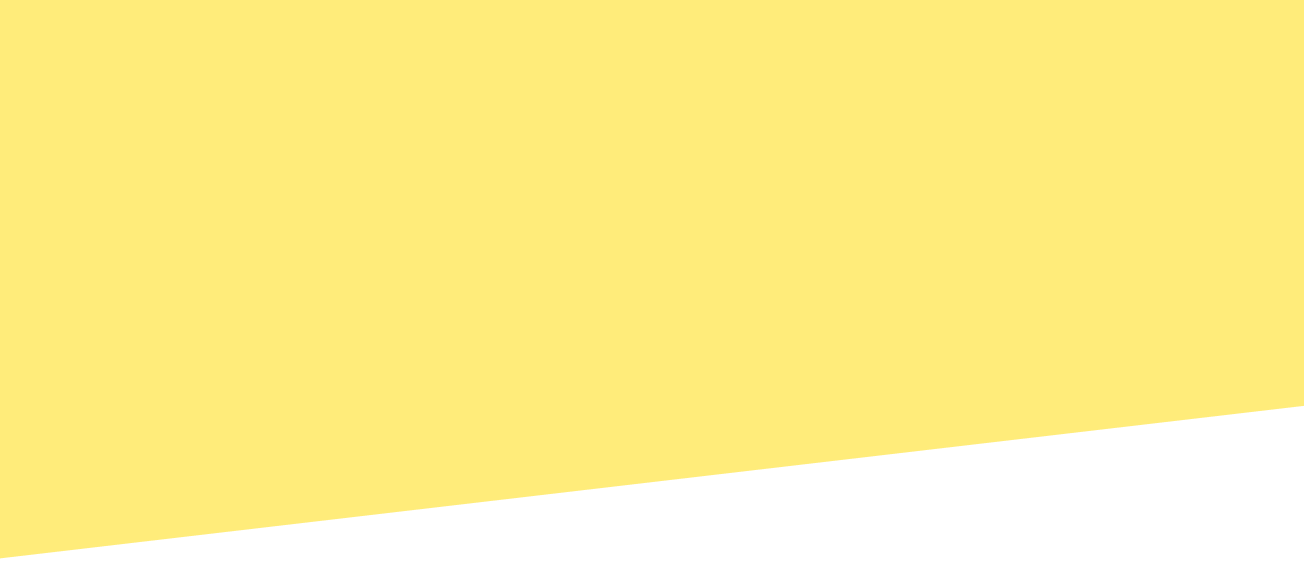
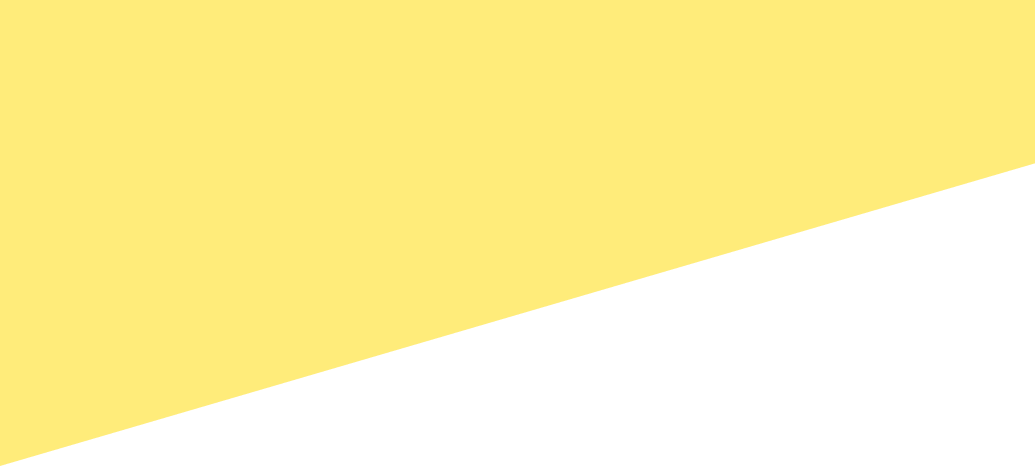
header layout for all devices

Changed region(s): [[0.0, 0.3305, 1.0, 1.0]]

diff --git a/src/styles/blocks/header.scss b/src/styles/blocks/header.scss
@@ -13,11 +13,16 @@
     display: flex;
     place-content: space-between;
     box-sizing: border-box;
-    border: 1px red solid;
+
 
     @include mobile {
       padding: 15px 38px 10px 30px;
     }
+
+    @include tablet {
+      padding: 29px 0;
+    }
+
 
     &__logo {
       width: 134px;
@@ -44,7 +49,7 @@
         display: none;
       }
 
-      border: black 1px solid;
+      border: $menu-color 1px solid;
     }
 
 
@@ -53,8 +58,8 @@
 &__nav-list {
 display: flex;
 gap: 60px;
-padding-left: 260px;
-background-color: yellow;
+padding-left: 150px;
+
 
 @media (max-width: 1259px) {
   display: none;
@@ -63,7 +68,6 @@ background-color: yellow;
 }
 
 &__nav-item {
-background-color: aqua;
 display: flex;
 align-items: flex-start;
 
@@ -81,7 +85,7 @@ display: block;
   transition: transform 0.5s ease-in-out;
   content: "";
   display: block;
-  border-bottom: 1px solid $primary;
+  border-bottom: 1px solid $menu-color;
   position: relative;
   left: 0;
   right: 0;
@@ -106,14 +110,16 @@ display: block;
     width: 306px;
     height: 306px;
     position: absolute;
-    top: 130px;
+    top: 121px;
     right: calc((100vw - 768px) / 2 + 34px);
-
   }
 
   @include desktop {
     width: 500px;
     height: 500px;
+    position: absolute;
+    top: 140px;
+    right: calc((100vw - 1440px) / 2 + 135px);
   }
 
   @include design {
@@ -127,29 +133,56 @@ display: block;
     background-color: $grey-light;
 
     &__title-box {
-      border: 1px solid blue;
+      box-sizing: border-box;
       padding: 25px 30px 30px;
-      box-sizing: border-box;
     }
-    &__title {
-      @include font-title-small;
 
+  }
+
+  @include tablet {
+    background-color: $grey-light;
+
+    &__title-box {
       box-sizing: border-box;
+      padding: 0;
+      display: flex;
+      align-items: flex-start;
+      padding-top: 20px;
+    }
+
+  }
+
+  @include desktop {
+    background-color: $grey-light;
+
+    &__title-box {
+      box-sizing: border-box;
+      padding: 0;
+      display: flex;
+      align-items: flex-start;
+      padding-top: 40px;
+      padding-left: 100px;
+       }
+
+  }
+
+  &__title {
+    @include font-title-small;
+
+    box-sizing: border-box;
+    position: relative;
+
+
+
+    &--transparent {
+      color: transparent;
       position: relative;
+      -webkit-text-stroke: $turquoise 1px;
 
-
-
-      &--transparent {
-        color: transparent;
-        position: relative;
-        -webkit-text-stroke: $turquoise 1px;
-
-      }
     }
   }
 
   @include tablet {
-    padding: 29px 0 0;
     background-color: transparent;
 
 
@@ -157,7 +190,7 @@ display: block;
       @include font-title-large;
 
       box-sizing: border-box;
-      padding-top: 49px;
+
       position: relative;
 
       &--transparent {

diff --git a/src/styles/blocks/content.scss b/src/styles/blocks/content.scss
@@ -12,14 +12,24 @@
   @include tablet {
     background-image: url('./images/shape.png');
    background-repeat: no-repeat;
-   background-size: 1121px 467px;
+
 
    flex-shrink: 0;
-   background-position: -500px -80px;
 
-
+background-position: -400px -20px;
 
  }
+
+ @include desktop {
+  background-image: url('./images/shape.png');
+ background-repeat: no-repeat;
+
+
+ flex-shrink: 0;
+
+background-position: 0 0;
+
+}
 
   &__graphic-link {
     @media (min-width: 1260px) {
